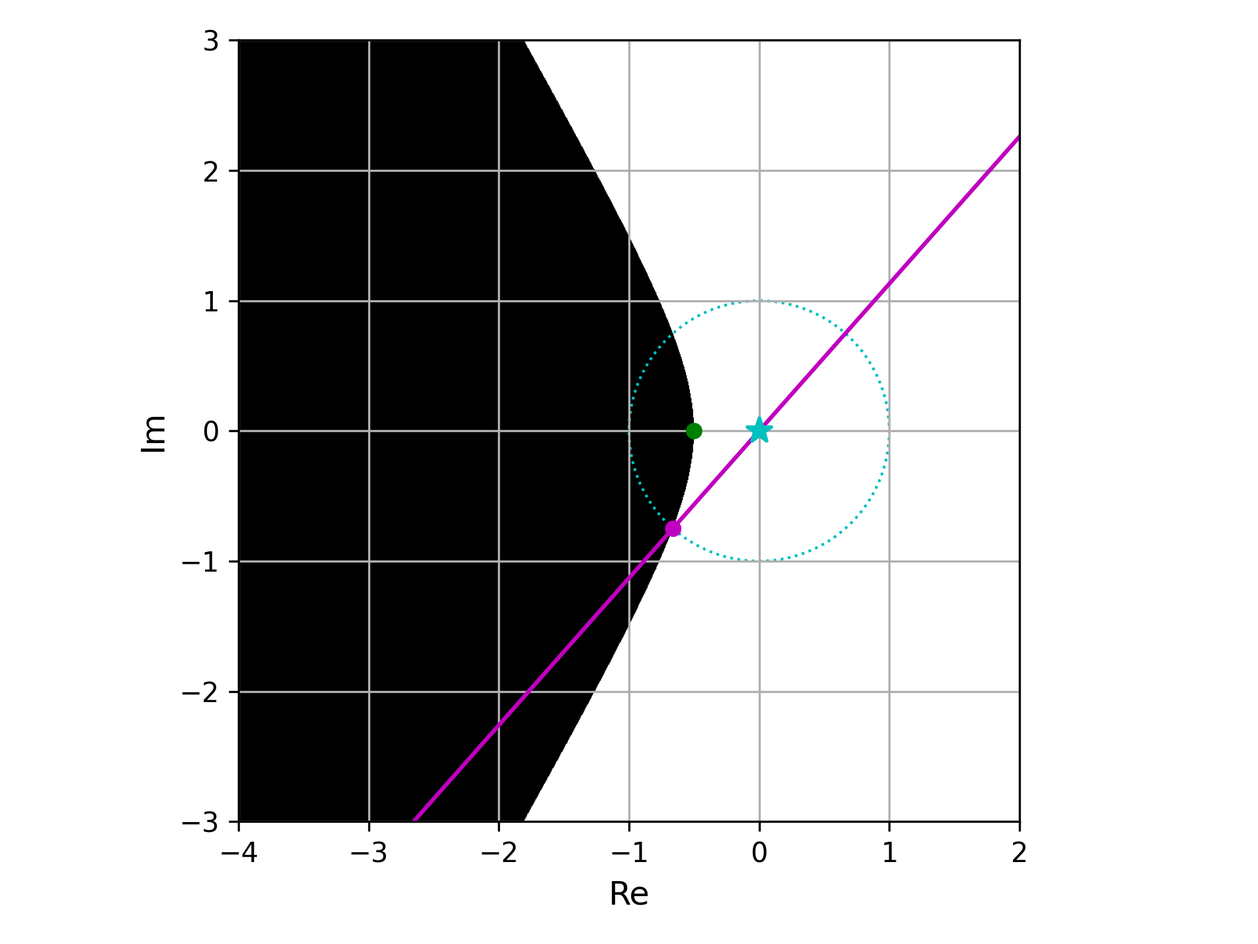
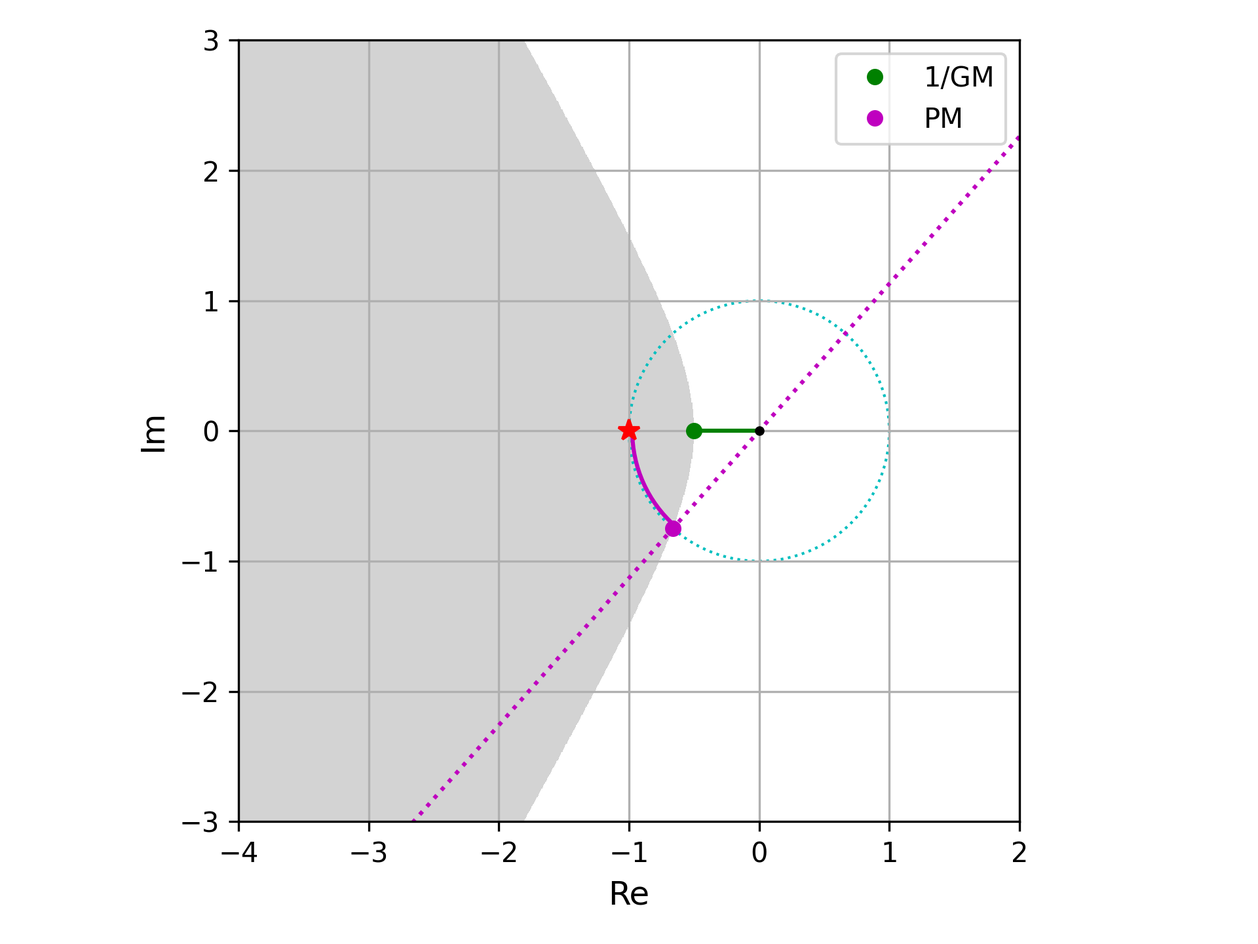
upd descrition

diff --git a/README.md b/README.md
@@ -1,28 +1,27 @@
 ### Active noise control
-**Active noise control** ([ANC](https://en.wikipedia.org/wiki/Active_noise_control)) - is a method for reducing unwanted sound by the addition of a second sound generated by an ANC controller to cancel the first. The two sounds cancel each other out by an effect that is called *destructive interference*.
+**Active noise control** ([ANC](https://en.wikipedia.org/wiki/Active_noise_control)) - is a method for reducing unwanted sound by the addition of a second sound generated by an ANC controller to cancel the first. The two sounds cancel each other out through an effect that is called *destructive interference*.
 
-We consider the task of designing an ANC system for **headphones**.
+This report discusses the task of designing an ANC system for **headphones**.
 
 <center><img src="images/earphone_anc.png" width="300"></center>
 
-According to the control structure, controllers can be categorized into the [*feedforward*](https://en.wikipedia.org/wiki/Feed_forward_(control)) (FF) and [*feedback*](https://en.wikipedia.org/wiki/Closed-loop_controller) (FB) types. The former one uses the signal from the reference microphone, while the latter relies on the error signal coming from the error microphone. If an ANC system includes both controllers, it is usually called a *hybrid* system.
+According to the control structure, controllers can be categorized into the [*feedforward*](https://en.wikipedia.org/wiki/Feed_forward_(control)) (FF) and [*feedback*](https://en.wikipedia.org/wiki/Closed-loop_controller) (FB) types. The former uses the signal from the reference microphone, while the latter relies on the error signal coming from the error microphone. If an ANC system includes both controllers, it is usually called a *hybrid* system.
 
 <center><img src="images/hybrid_anc.png" width="300"></center>
 
-The controller synthesis problem can be formulated as a non-linear constrained optimization problem. 
-The controller is synthesized from a dataset of measured impulse responses of a headphone system.
+The controller synthesis problem can be formulated as a **constrained optimization problem**. The problem is formulated based on a **dataset of measured impulse responses** of a headphone system.
 
 #### Controller representation
 
 Typically, ANC systems use a linear, time-invariant or adaptive, digital filter with a [*finite impulse response*](https://en.wikipedia.org/wiki/Finite_impulse_response) (FIR) or an [*infinite impulse response*](https://en.wikipedia.org/wiki/Infinite_impulse_response) (IIR).
 
-Compared to analog controllers, one problem of a digital controller is that an extra delay is introduced. Also, in the case of headphones, the distance between the reference microphone and the speaker does not exceed 1-1.5 cm. Both problems motivate using higher sampling frequency to reduce the latency, but it comes with the cost of increased computational burden, making the use of FIR-based controllers impractical.
+Compared to analog controllers, one problem of a digital controller is that an extra delay is introduced. Also, in the case of headphones, the distance between the reference microphone and the speaker does not exceed 1-1.5 cm. Both problems motivate the use of higher sampling frequency to reduce the latency, but it comes with the cost of increased computational burden, making the use of FIR-based controllers impractical.
 
-This problem could be alleviated with the usages of [*warped FIR*](https://www2.spsc.tugraz.at/people/franklyn/ICASSP97/pdf/scan/ic972205.pdf) filters or cascades of [*biquad*](https://en.wikipedia.org/wiki/Digital_biquad_filter) filters (2nd order IIR), the latter of which is particularly advantageous for commercial products since the controller cost could be greatly lowered and the battery lifetime could also be lengthened.
+This problem could be alleviated with the use of [*warped FIR*](https://www2.spsc.tugraz.at/people/franklyn/ICASSP97/pdf/scan/ic972205.pdf) filters or cascades of [*biquad*](https://en.wikipedia.org/wiki/Digital_biquad_filter) filters (2nd order IIR), the latter of which is particularly advantageous for commercial products since the controller cost could be greatly lowered and the battery lifetime could also be lengthened.
 
-The biggest advantage of an IIR-based controller is its reduced computational complexity. Each biquad filter only needs 5 multiplications and 4 additions per sample to calculate its output, and the total number of multiplications or additions is less than 100. This is several orders of magnitude less than for FIR-based controllers. 
+The primary advantage of an IIR-based controller is its reduced computational complexity. Each biquad filter only needs 5 multiplications and 4 additions per sample to calculate its output, and the total number of multiplications or additions is less than 100. This is several orders of magnitude less than for FIR-based controllers. 
 
-Based on this reduced computational complexity, the sampling frequency could be greatly increased up to 192 kHz or 384 kHz (typical values in commercial chips) so that a much smaller controller delay could be obtained. Consequently, a better noise reduction performance could be expected due to enhanced system causality.
+Based on this reduced computational complexity, the sampling frequency could be greatly increased up to 192 kHz or 384 kHz (typically used in commercial chips) so that a much smaller controller delay could be obtained. Consequently, a better noise reduction performance could be expected due to enhanced system causality.
 
 
 #### ANC system structure
@@ -49,11 +48,13 @@ Design of a controller requires measurements of a plant to be controlled. In act
 
 It combines the properties of the digital-analog (D/A) and analog-digital (A/D) converters, analog filters, power amplifier, loudspeaker, microphone, and the acoustic path between the loudspeaker and error microphone.
 
-Traditionally, an ANC system is tuned to produce optimum noise cancellation at the location of the error microphone, also called the *error reference point* (ERP). This is because most of the ANC systems rely upon monitoring the cancelled signal to work. To maximize noise cancellation, an ideal placement of an error microphone would be at the eardrum. This point is often referred to as the *drum reference point* (DRP). But that location is not practical or possible for many consumer devices. Thus, the ERP is used to provide a signal that is roughly indicative of the cancellation performance at the DRP, especially for lower frequencies (< 1 kHz). Also, sometimes it is considered acceptable to ignore any differences in noise cancellation between the ERP and the DRP.
+Traditionally, an ANC system is tuned to produce optimal noise cancellation at the location of the error microphone, also called the *error reference point* (ERP). This is because most of the ANC systems rely upon monitoring the cancelled signal to work. To maximize noise cancellation, an ideal placement of an error microphone would be at the eardrum. This point is often referred to as the *drum reference point* (DRP). However, that location is not practical or possible for many consumer devices. Thus, the ERP is used to provide a signal that is roughly indicative of the cancellation performance at the DRP, especially for lower frequencies (< 1 kHz). Also, sometimes it is considered acceptable to ignore any differences in noise cancellation between the ERP and the DRP.
 
 Using [Mason's gain formula](https://en.wikipedia.org/wiki/Mason%27s_gain_formula), one can derive the transfer function:
 
-$H = \frac{\sum_k P_k \Delta_k}{\Delta}$
+```math
+H = \frac{\sum_k P_k \Delta_k}{\Delta}
+```
 
 that models the system's output $Y$ given the input $X$.
 
@@ -114,31 +115,32 @@ S = \frac{1}{1 + H \cdot G} = \frac{1}{1 + L}
 ```
 In the case of feedback ANC, the plant is $G$ is given by the measured secondary path response(s). Here, $L = H \cdot G$ denotes the *open-loop* transfer function. 
 
-The design goal of minimizing the sensitivity function translates to making its magnitude, $|S|$, as small as possible over the target frequency range where noise attenuation is desired.
+The design goal of minimizing the sensitivity function involves reducing its magnitude, $|S|$, as much as possible over the target frequency range where noise attenuation is desired.
 
-Beyond performance, the sensitivity function is intimately linked to system robustness. The peak magnitude of the sensitivity function is a widely used indicator of robustness to variations or uncertainties in the plant model. Smaller values (typically constrained to be less than 6 dB) signify a more robust system.
+Beyond performance, the sensitivity function is closely related to system robustness. The peak magnitude of the sensitivity function is a widely used indicator of robustness to variations or uncertainties in the plant model. Smaller values (typically constrained to be less than 6 dB) signify a more robust system.
 
-Also, the sensitivity function characterizes the so-called *waterbed effect* (see below), a fundamental constraint in feedback control systems, including ANC. This phenomenon dictates that efforts to suppress the sensitivity function (attenuate noise) in one frequency band **inevitably** lead to an increase in its magnitude (noise amplification) in other frequency bands. Therefore, the design process must carefully balance the desired level of noise attenuation within the control bandwidth against acceptable levels of noise amplification outside this band.
+Additionally, the sensitivity function characterizes the so-called *waterbed effect* (see below), a fundamental constraint in feedback control systems, including ANC. This phenomenon dictates that efforts to suppress the sensitivity function (attenuate noise) in one frequency band **inevitably** lead to an increase in its magnitude (noise amplification) in other frequency bands. Therefore, the design process must carefully balance the desired level of noise attenuation within the control bandwidth against acceptable levels of noise amplification outside this band.
 
-In summary, the optimization problem for ANC controller synthesis effectively seeks an optimal shape for $|S|$ that balances these interconnected and conflicting requirements of performance, robustness, and limited out-of-band amplification.
+In summary, the optimization problem for ANC controller synthesis is to find a shape for $|S|$ that balances these interconnected and conflicting requirements of performance, robustness, and limited out-of-band amplification.
 
 
 
-##### Additional considerations
+#### Objective function
+
 The following facts can be helpful for designing an ANC system for headphones.
-- First, the human auditory system is less sensitive at low frequencies. See the [equal-loudness contours](https://en.wikipedia.org/wiki/Equal-loudness_contour). 
-- Second, a headphone system damps ambient noise in the high frequency region, that is, the noise is already partially attenuated by passive sound isolation.
+- First, the human auditory system is less sensitive at low frequencies. See the [equal-loudness contours](https://en.wikipedia.org/wiki/Equal-loudness_contour) for details. 
+- Second, a headphone system attenuates ambient noise in the high frequency region, that is, the noise is already partially attenuated by passive sound isolation.
 
-Based on these assumptions, the objective function for controller design may be altered to put less emphasis on certain frequency regions (low and high frequencies). This can be done by using a weighted sensitivity function obtained by applying [frequency weighting](https://en.wikipedia.org/wiki/Weighting) to the sensitivity function. A suitable frequency weighting function can be defined based on properties of the human ear (for instance, see [A-weighting](https://en.wikipedia.org/wiki/A-weighting)) as well as the desired noise attenuation band.
+Based on these assumptions, the objective function for controller design can be adjusted to put less emphasis on certain frequency regions (low and high frequencies). This can be done by using a weighted sensitivity function obtained by applying [frequency weighting](https://en.wikipedia.org/wiki/Weighting). A suitable frequency weighting function can be defined based on properties of the human ear (such as [A-weighting](https://en.wikipedia.org/wiki/A-weighting)) as well as the desired noise attenuation band.
 
 Below is an illustration of weighting functions used for FF and FB controller design.
 
 <center><img src="images/weighting_curves.png" width="500"></center>
 
 
-#### Controller representation
+#### Controller parameterization
 
-In [^1] a method for designing an ANC controller represented as a FIR filter was proposed. The coefficients of the filter were found by solving a *convex optimization* problem. Despite the convenience of the problem formulation and the uniqueness of a solution, practical implementations of FIR controllers are usually restricted by their computational complexity. Therefore, IIR filters are usually preferred for implementing ANC controllers. Also, a cascade of 5-10 biquad filters can approximate a prescribed frequency response with reasonable accuracy, required for building a competitive ANC system. Here, **cascades of biquad filters** are used as the feedback and feedforward controllers, which is in accordance with the most commercial ANC headphones currently available on the market (2024). 
+In [^1], a method for designing an ANC controller, represented as an FIR filter, was proposed. The coefficients of the filter were found by solving a *convex optimization* problem. Despite the convenience of the problem formulation and the uniqueness of the solution, practical implementations of FIR controllers are usually restricted by their computational complexity. Therefore, IIR filters are usually preferred for implementing ANC controllers. Also, a cascade of 5-10 biquad filters can approximate a prescribed frequency response with reasonable accuracy, required for building a competitive ANC system. Here, **cascades of biquad filters** are used as the feedback and feedforward controllers, similar to the most commercial ANC headphones currently available on the market (2024). 
 
 ##### Filter parameterization
 
@@ -146,8 +148,9 @@ Instead of the general form represented with poles and zeros, several kinds of p
 
 
 #### Stability constraints
-According to the [Nyquist stability criterion](https://en.wikipedia.org/wiki/Nyquist_stability_criterion), a closed-loop system is stable iif the Nyquist curve of the open-loop transfer function does not encircle the point $-1+0i$. For ensuring this criterion, we define forbidden regions in the complex plane.
-In practice, it is not enough that a system is stable. There must be some margins of stability to describe its robustness to perturbation. There are several common stability measures defined as follows:
+
+According to the [Nyquist stability criterion](https://en.wikipedia.org/wiki/Nyquist_stability_criterion), a closed-loop system is stable iif the Nyquist curve of the open-loop transfer function does not encircle the point $-1+0i$. To ensure this criterion, we define forbidden regions in the complex plane.
+In practice, it is not enough that a system is stable. There must be some margins of stability to describe its robustness to perturbation. Several common stability measures are defined as follows:
 - **Stability margin** is the shortest distance from the Nyquist curve to the critical point $(-1, 0)$.
 - **Gain margin** (GM) is a factor by which the gain of a stable system is allowed to increase before the system becomes unstable. It is the inverse of the distance between the origin and the point between $-1$ and $0$ where the Nyquist curve crosses the real axis.
 - **Phase margin** (PM) is the amount of phase lag that a system can tolerate before becoming unstable. It is defined as the difference between $-180$ degrees and the phase angle of the open-loop transfer function at the frequency where the magnitude is $1$ ($0$ $\mathrm{dB}$).
@@ -173,7 +176,7 @@ This inequality defines a hyperbolic curve in the complex plane. This bound not 
 \end{equation}
 ```
 
-Forbidden area (black) in the complex plane:
+Forbidden area (gray) in the complex plane:
 
 <center><img src="images/constraint_hyperbola.png" width="500"></center>
 
@@ -182,7 +185,7 @@ Another similar constraint can be defined based on a parabola in the complex pla
 \mathrm{Re}\{L(\omega)\} \geq -d_1 \mathrm{Im}\{L(\omega)\}^2 - d_2
 ```
 
-Forbidden area (black) in the complex plane:
+Forbidden area (gray) in the complex plane:
 
 <center><img src="images/constraint_parabola.png" width="500"></center>
 
@@ -217,27 +220,29 @@ This constraint defines a circular region with a radius $b$ centered at $(-1, 0)
 In summary, given the frequency response of the plant (secondary path), a feedback controller can be designed by solving a constrained optimization problem defined in the frequency domain. The problem includes the objective function defined by the squared magnitude of the weighted sensitivity function, and the constraints outlined before. The problem is solved wrt the controller parameters $\boldsymbol{\theta}$:
 ```math
 \begin{aligned}
-\min_{\boldsymbol{\theta}} \quad &  \|W(\omega) S(\omega; \boldsymbol{\theta})\|^2_2 \\
+\min_{\boldsymbol{\theta}} \quad & \|W(\omega) S(\omega; \boldsymbol{\theta})\|^2_2 \\
 \text{s.t.} \quad & |1 - L(\omega; \boldsymbol{\theta})| - |1 + L(\omega; \boldsymbol{\theta})| \leq 2a, \forall \omega \in [0, \infty) \\
-                  & |1 + L(\omega; \boldsymbol{\theta})| \geq b, \forall \omega \in [0, \infty)    \\
-                  & |L(\omega; \boldsymbol{\theta})| \leq c, \forall \omega \in [\omega_{h}, \infty) \\
+& |1 + L(\omega; \boldsymbol{\theta})| \geq b, \forall \omega \in [0, \infty) \\
+& |L(\omega; \boldsymbol{\theta})| \leq c, \forall \omega \in [\omega_{h}, \infty) \\
 \end{aligned}
 ```
 Here, $W$ denotes a frequency weighting function. A large value of $W$ for a particular frequency $\omega$ encourages the optimization method to concentrate its effort on this frequency.
 
 Since continuous frequency responses cannot be directly handled by numerical optimization algorithms, they must be discretized. This involves evaluating the SP response, the controller response, and the weighting function at a finite set of discrete frequency points $\omega$. The objective function and all frequency-dependent constraints are then formulated based on these points. 
 
-A critical aspect of this discretization is ensuring that the behavior of the system between these sample points remains acceptable. The number of frequency points, $N$, must be sufficiently large to adequately capture the variations in the frequency responses and to prevent undesirable phenomena. If it is too small, the controller might satisfy all criteria at the selected discrete points, but exhibit poor performance or even instability due to large, undetected peaks or phase shifts in the sensitivity function or loop transfer function occurring between these points. However, increasing $N$, to improve the resolution of the frequency response comes at the cost of increased computational complexity. Each iteration of the optimization algorithm requires the evaluation of the objective function and all relevant constraints at each of the $N$ frequency points. For complex controllers or a large number of constraints, this can lead to prohibitively long optimization times.
+##### Frequency discretization
+
+A critical aspect of this discretization is ensuring that the behavior of the system between these sample points remains acceptable. The number of frequency points, $N$, must be sufficiently large to adequately capture the variations in the frequency responses and to prevent undesirable phenomena. If it is too small, the controller might satisfy all criteria at the selected discrete points, but exhibit poor performance or even instability due to large, undetected peaks or phase shifts in the sensitivity function or loop transfer function occurring between these points. However, increasing $N$ to improve the resolution of the frequency response comes at the cost of increased computational complexity. Each iteration of the optimization algorithm requires the evaluation of the objective function and all relevant constraints at each of the $N$ frequency points. For complex controllers or a large number of constraints, this can lead to prohibitively long optimization times.
 
 To mitigate this trade-off between accuracy and computational burden, non-uniformly discretized spectra offer a promising approach [^3]. Instead of a uniform spacing of frequency points, this technique employs a variable density of points. More points are allocated to frequency regions deemed critical for the ANC system's performance or stability, while fewer points are used in less critical regions.
 
-#### Solver
+#### Controller optimization
 
 The optimization problem described above is highly non-convex since the controller has an IIR structure. 
 
-Consequently, [metaheuristics](https://en.wikipedia.org/wiki/Metaheuristic) are often used for solving such problems. These algorithms aim to find a global (rather than local) optimum, and although they have no guarantee of good performance, they have been found to perform acceptably in many use cases. Examples of such algorithms include evolutionary algorithms, particle swarm optimization, etc.
+Consequently, [metaheuristics](https://en.wikipedia.org/wiki/Metaheuristic) are often used to solve such problems. These algorithms aim to find a global (rather than local) optimum, and although they have no guarantee of good performance, they have been found to perform acceptably in many use cases. Examples of such algorithms include evolutionary algorithms, particle swarm optimization, etc.
 
-To use off-the-shelf metaheuristics available in open-source Python packages, the original optimization problem should be formulated as an unconstrained problem.
+To use off-the-shelf metaheuristics available in open-source Python packages, the original optimization problem should be formulated as an unconstrained problem. This is done by adding the constraints as additional penalty terms to the original objective function, similar to [^5].
 
 
 ### Feedforward controller design
@@ -270,17 +275,17 @@ See https://www.bose.com/pressroom/bose-quietcomfort-20-acoustic-noise-cancellin
 
 First, let us verify the stability of the resulting feedback controller.
 
-Assessment of the stability of a closed-loop negative feedback system is done by applying the Nyquist stability criterion to the Nyquist plot of the open-loop system (*i.e.* the same system without its feedback loop). A Nyquist plot is a parametric plot of a frequency response. In Cartesian coordinates, the real part of the transfer function is plotted on the x-axis while the imaginary part is plotted on the y-axis. The frequency is swept as a parameter, resulting in one point per frequency. To determine closed-loop stability, the plot is analyzed for encirclements of the critical point $-1+0i$.
+The stability of a closed-loop negative feedback system is assessed by applying the Nyquist stability criterion to the Nyquist plot of the open-loop system (*i.e.* the same system without its feedback loop). A Nyquist plot is a parametric plot of a frequency response. In Cartesian coordinates, the real part of the transfer function is plotted on the x-axis while the imaginary part is plotted on the y-axis. The frequency is swept as a parameter, resulting in one point per frequency. To determine closed-loop stability, the plot is analyzed for encirclements of the critical point $-1+0i$.
 
 The Nyquist plot of the open-loop transfer function corresponding to the obtained feedback controller:
 
 <center><img src="images/nyquist_plot.png" width="500"></center>
 
-The Nyquist curve, shown as a dotted line, does not penetrate the forbidden region (black) assuring that the system is stable.
+The Nyquist curve, shown as a dotted line, does not penetrate the forbidden region (gray) ensuring that the system is stable.
 
-Next, given the synthesized controllers, one can assess the noise reduction performance of the resulting ANC system. The practical performance assessment involves measuring the acoustic noise at the DRP under two conditions: with the ANC system turned *off* and with the ANC system turned *on*. 
+Next, given the synthesized controllers, the noise reduction performance of the resulting ANC system can be assessed. The practical performance assessment involves measuring the acoustic noise at the DRP under two conditions: with the ANC system turned *off* and with the ANC system turned *on*. 
 
-The *relative attenuation* (RA) is a widely used metric to quantify the performance of an ANC system in the frequency domain. It is a ratio of the power spectral density (PSD) of the error microphone signal with an ANC system turned *on* to the same PSD with ANC turned *off*, typically expressed in decibels (dB). A negative value of RA at a particular frequency indicates that the ANC system is reducing the noise power at that frequency. Conversely, a positive value indicates noise amplification.
+The *relative attenuation* (RA) is a widely used metric for quantifying the performance of an ANC system in the frequency domain. It is a ratio of the power spectral density (PSD) of the error microphone signal with an ANC system turned *on* to the same PSD with ANC turned *off*, typically expressed in decibels (dB). A negative value of RA at a particular frequency indicates that the ANC system is reducing the noise power at that frequency. Conversely, a positive value indicates noise amplification.
 
 Assuming that the system behaves linearly, the ratio of these PSDs is approximately equal to the squared magnitude of the sensitivity function $S$ at the corresponding frequency. 
 ```math
@@ -288,18 +293,18 @@ Assuming that the system behaves linearly, the ratio of these PSDs is approximat
 ```
 Any significant discrepancies between the $|S|$ predicted by the optimization process and the experimentally measured RA can point to inaccuracies in the SP model used for design, unmodeled non-linearities, or limitations imposed by the controller's implementation (*e.g.*, quantization effects, processing delay).
 
-Below is a result of running the resulting ANC system simulation.
+Below is the result of running the ANC system simulation.
 
 <center><img src="images/attenuation.png" width="600"></center>
 
 Here, the curve labeled as FF+FB corresponds to the hybrid system, while the other curves show individual performance of each controller. 
 
 
-### ANC controller design issues
+### Additional design considerations
 
 Ultimately, the synthesis of an effective ANC controller is an iterative process. It often involves meticulous tuning of weighting functions in the objective, careful definition of constraint boundaries, and repeated optimization runs to navigate the complex trade-offs inherent in feedback control.
 
-For practical design of an ANC system, one needs to consider several issues, such as the measured data uncertainty and specifics of headphone wearing.
+For practical design of an ANC system, several issues must be considered, such as the measured data uncertainty and specifics of headphone fit.
 
 #### Plant uncertainty
 
@@ -333,11 +338,11 @@ There are studies where the ERP vs. DRP mismatch is addressed for an ANC system 
 
 ### References
 
-[^1]: **Rafaely, B., & Elliott, S. J.**  (1999). *$H_2/H_{\infty}$ Active Control of Sound in a Headrest: Design and Implementation.*
-[^2]:  **Nercessian, S., Sarroff, A. M., & Werner, K. J.**  (2021). *Lightweight and Interpretable Neural Modeling of an Audio Distortion Effect Using Hyperconditioned Differentiable Biquads.*
-[^3]:  **Klatt, W. A., Burger, M., Martin, R., & Puder, H.**  (2024). *Filter Synthesis for Robust Feedback Active Noise Control using Non-Uniformly Discretized Fourier Spectra.*
-[^4]: **Liebich, S., Fabry, J., Jax, P., & Vary, P.**  (2019). *Acoustic Path Database for ANC In-Ear Headphone Development.*
+[^1]: **Rafaely, B., & Elliott, S. J.** (1999). *$H_2/H_{\infty}$ Active Control of Sound in a Headrest: Design and Implementation.*
+[^2]: **Nercessian, S., Sarroff, A. M., & Werner, K. J.** (2021). *Lightweight and Interpretable Neural Modeling of an Audio Distortion Effect Using Hyperconditioned Differentiable Biquads.*
+[^3]: **Klatt, W. A., Burger, M., Martin, R., & Puder, H.** (2024). *Filter Synthesis for Robust Feedback Active Noise Control using Non-Uniformly Discretized Fourier Spectra.*
+[^4]: **Liebich, S., Fabry, J., Jax, P., & Vary, P.** (2019). *Acoustic Path Database for ANC In-Ear Headphone Development.*
 [^5]: **Hua, Y., & Peng, L.** (2024). *Uncertainty Constraint on Headphone Secondary Path Function for Designing Cascade Biquad Feedback Controller with Improved Noise Reduction Performance.*
 [^6]: **Benois, P.R., Zölzer, U.** (2019). *Psychoacoustic Optimization of a Feedback Controller for Active Noise Cancelling Headphones.*
-[^7]: **Klatt, W. A., & Martin, R.**  (2025). *Control Filter Design with Convex-Set-Based Uncertainty Model for Robust Feedback Active Noise Control.*
-[^8]: **An, F., Wu, Q., & Liu, B.**  (2022). *Feedback Controller Optimization for Active Noise Control Headphones Considering Frequency Response Mismatch between Microphone and Human Ear.*
+[^7]: **Klatt, W. A., & Martin, R.** (2025). *Control Filter Design with Convex-Set-Based Uncertainty Model for Robust Feedback Active Noise Control.*
+[^8]: **An, F., Wu, Q., & Liu, B.** (2022). *Feedback Controller Optimization for Active Noise Control Headphones Considering Frequency Response Mismatch between Microphone and Human Ear.*
